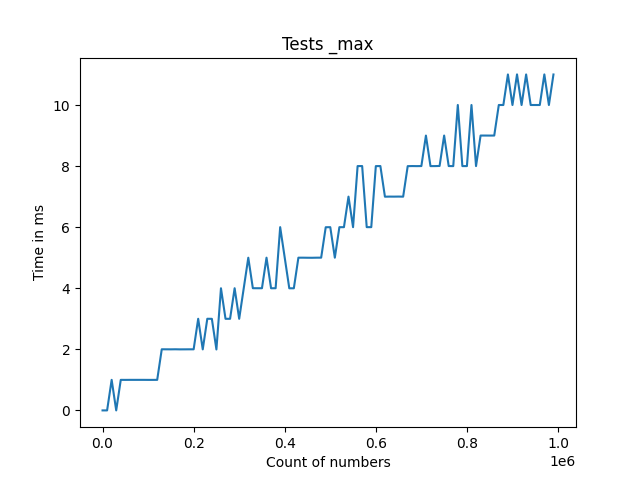
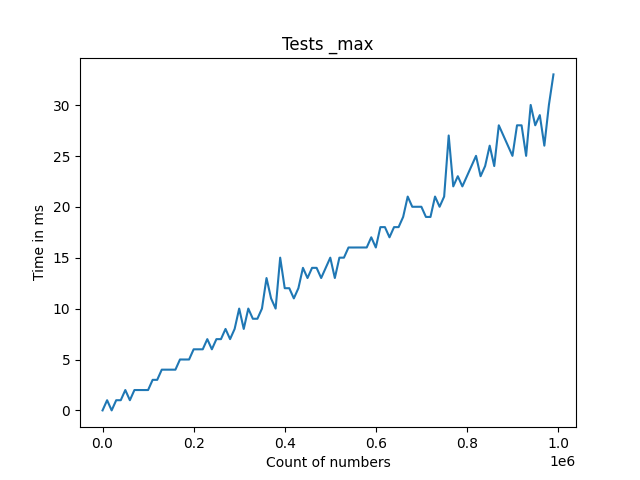
Add files via upload

diff --git a/test.py b/test.py
@@ -10,15 +10,6 @@ from datetime import *
 class TestMain(unittest.TestCase):
     last = 0
 
-    def setUp(self) -> None:
-        self.begin = datetime.now()
-        self.Main = Main()
-
-    def tearDown(self) -> None:
-        self.end = datetime.now()
-        diff = self.end - self.begin
-        last = diff.microseconds / 1000
-
     def test_min(self, n=1000000):
         file_set_Up(n)
         self.Main = Main()
@@ -43,7 +34,7 @@ class TestMain(unittest.TestCase):
         f.close()
         self.assertEqual(summa, self.Main._sum())
 
-    def test_mult(self, n=1000000):
+    def test_mult(self, n=10000):
         file_set_Up(n)
         self.Main = Main()
         f = open('input.txt')
@@ -57,7 +48,7 @@ class TestMain(unittest.TestCase):
     def test_min_graph(self):
         array = []
         lst = []
-        for i in range(1, 1000000, 100000):
+        for i in range(1, 1000000, 10000):
             length = i
             f = open('input.txt')
             file_set_Up(i)
@@ -77,7 +68,7 @@ class TestMain(unittest.TestCase):
     def test_max_graph(self):
         array = []
         lst = []
-        for i in range(1, 1000000, 100000):
+        for i in range(1, 1000000, 10000):
             length = i
             f = open('input.txt')
             file_set_Up(i)
@@ -97,7 +88,7 @@ class TestMain(unittest.TestCase):
     def test_sum_graph(self):
         array = []
         lst = []
-        for i in range(1, 1000000, 100000):
+        for i in range(1, 1000000, 10000):
             length = i
             f = open('input.txt')
             file_set_Up(i)
@@ -117,7 +108,7 @@ class TestMain(unittest.TestCase):
     def test_mult_graph(self):
         array = []
         lst = []
-        for i in range(1, 1000000, 100000):
+        for i in range(1, 1000000, 10000):
             length = i
             f = open('input.txt')
             file_set_Up(i)

diff --git a/main.py b/main.py
@@ -4,12 +4,23 @@ class Main:
             self.array = list(map(int, f.readline().split()))
 
     def _min(self):
-        return min(self.array)
+        minimal = 10000000
+        for i in self.array:
+            if i < minimal:
+                minimal = i
+        return minimal
 
     def _max(self):
+        maximal = -10000000
+        for i in self.array:
+            if i > maximal:
+                maximal = i
         return max(self.array)
 
     def _sum(self):
+        summa = 0
+        for i in self.array:
+            summa += i
         return sum(self.array)
 
     def _mult(self):

diff --git a/set_Up_file.py b/set_Up_file.py
@@ -4,7 +4,9 @@ import random
 def file_set_Up(high):
     s = ''
     for i in range(high):
-        s += str(random.randint(-10000, 10000)) + ' '
+        s += str(random.randint(1, 10000)) + ' '
     s = s[0:-1]
     with open('input.txt', 'w') as f:
         f.write(s)
+    with open('all_tests.txt', 'a+') as f:
+        f.write(s + '\n')

diff --git a/failed.py b/failed.py
@@ -2,7 +2,8 @@ import telebot
 
 token = str('5649650835:AAETquP7oY4XjskPkSVtfRNQimAmnZ6OdZ0')
 bot=telebot.TeleBot(token)
-id = [976772261]
-command_list = ['start']
+with open('id.txt') as f:
+    id = list(map(int, f.readline().split()))
+
 for i in id:
     bot.send_message(i, 'Tests failed')

diff --git a/passed.py b/passed.py
@@ -2,7 +2,8 @@ import telebot
 
 token = str('5649650835:AAETquP7oY4XjskPkSVtfRNQimAmnZ6OdZ0')
 bot=telebot.TeleBot(token)
-id = [976772261]
-command_list = ['start']
+with open('id.txt') as f:
+    id = list(map(int, f.readline().split()))
+
 for i in id:
     bot.send_message(i, 'Tests passed')

diff --git a/bot.py b/bot.py
@@ -8,7 +8,8 @@ command_list = ['start']
 
 @bot.message_handler(commands=command_list)
 def command_issue(message):
-    id.append(message.chat.id)
+    with open('id.txt', 'a+') as f:
+        f.write(str(id) + ' ')
 
 print(id)
 bot.infinity_polling(timeout=10)
